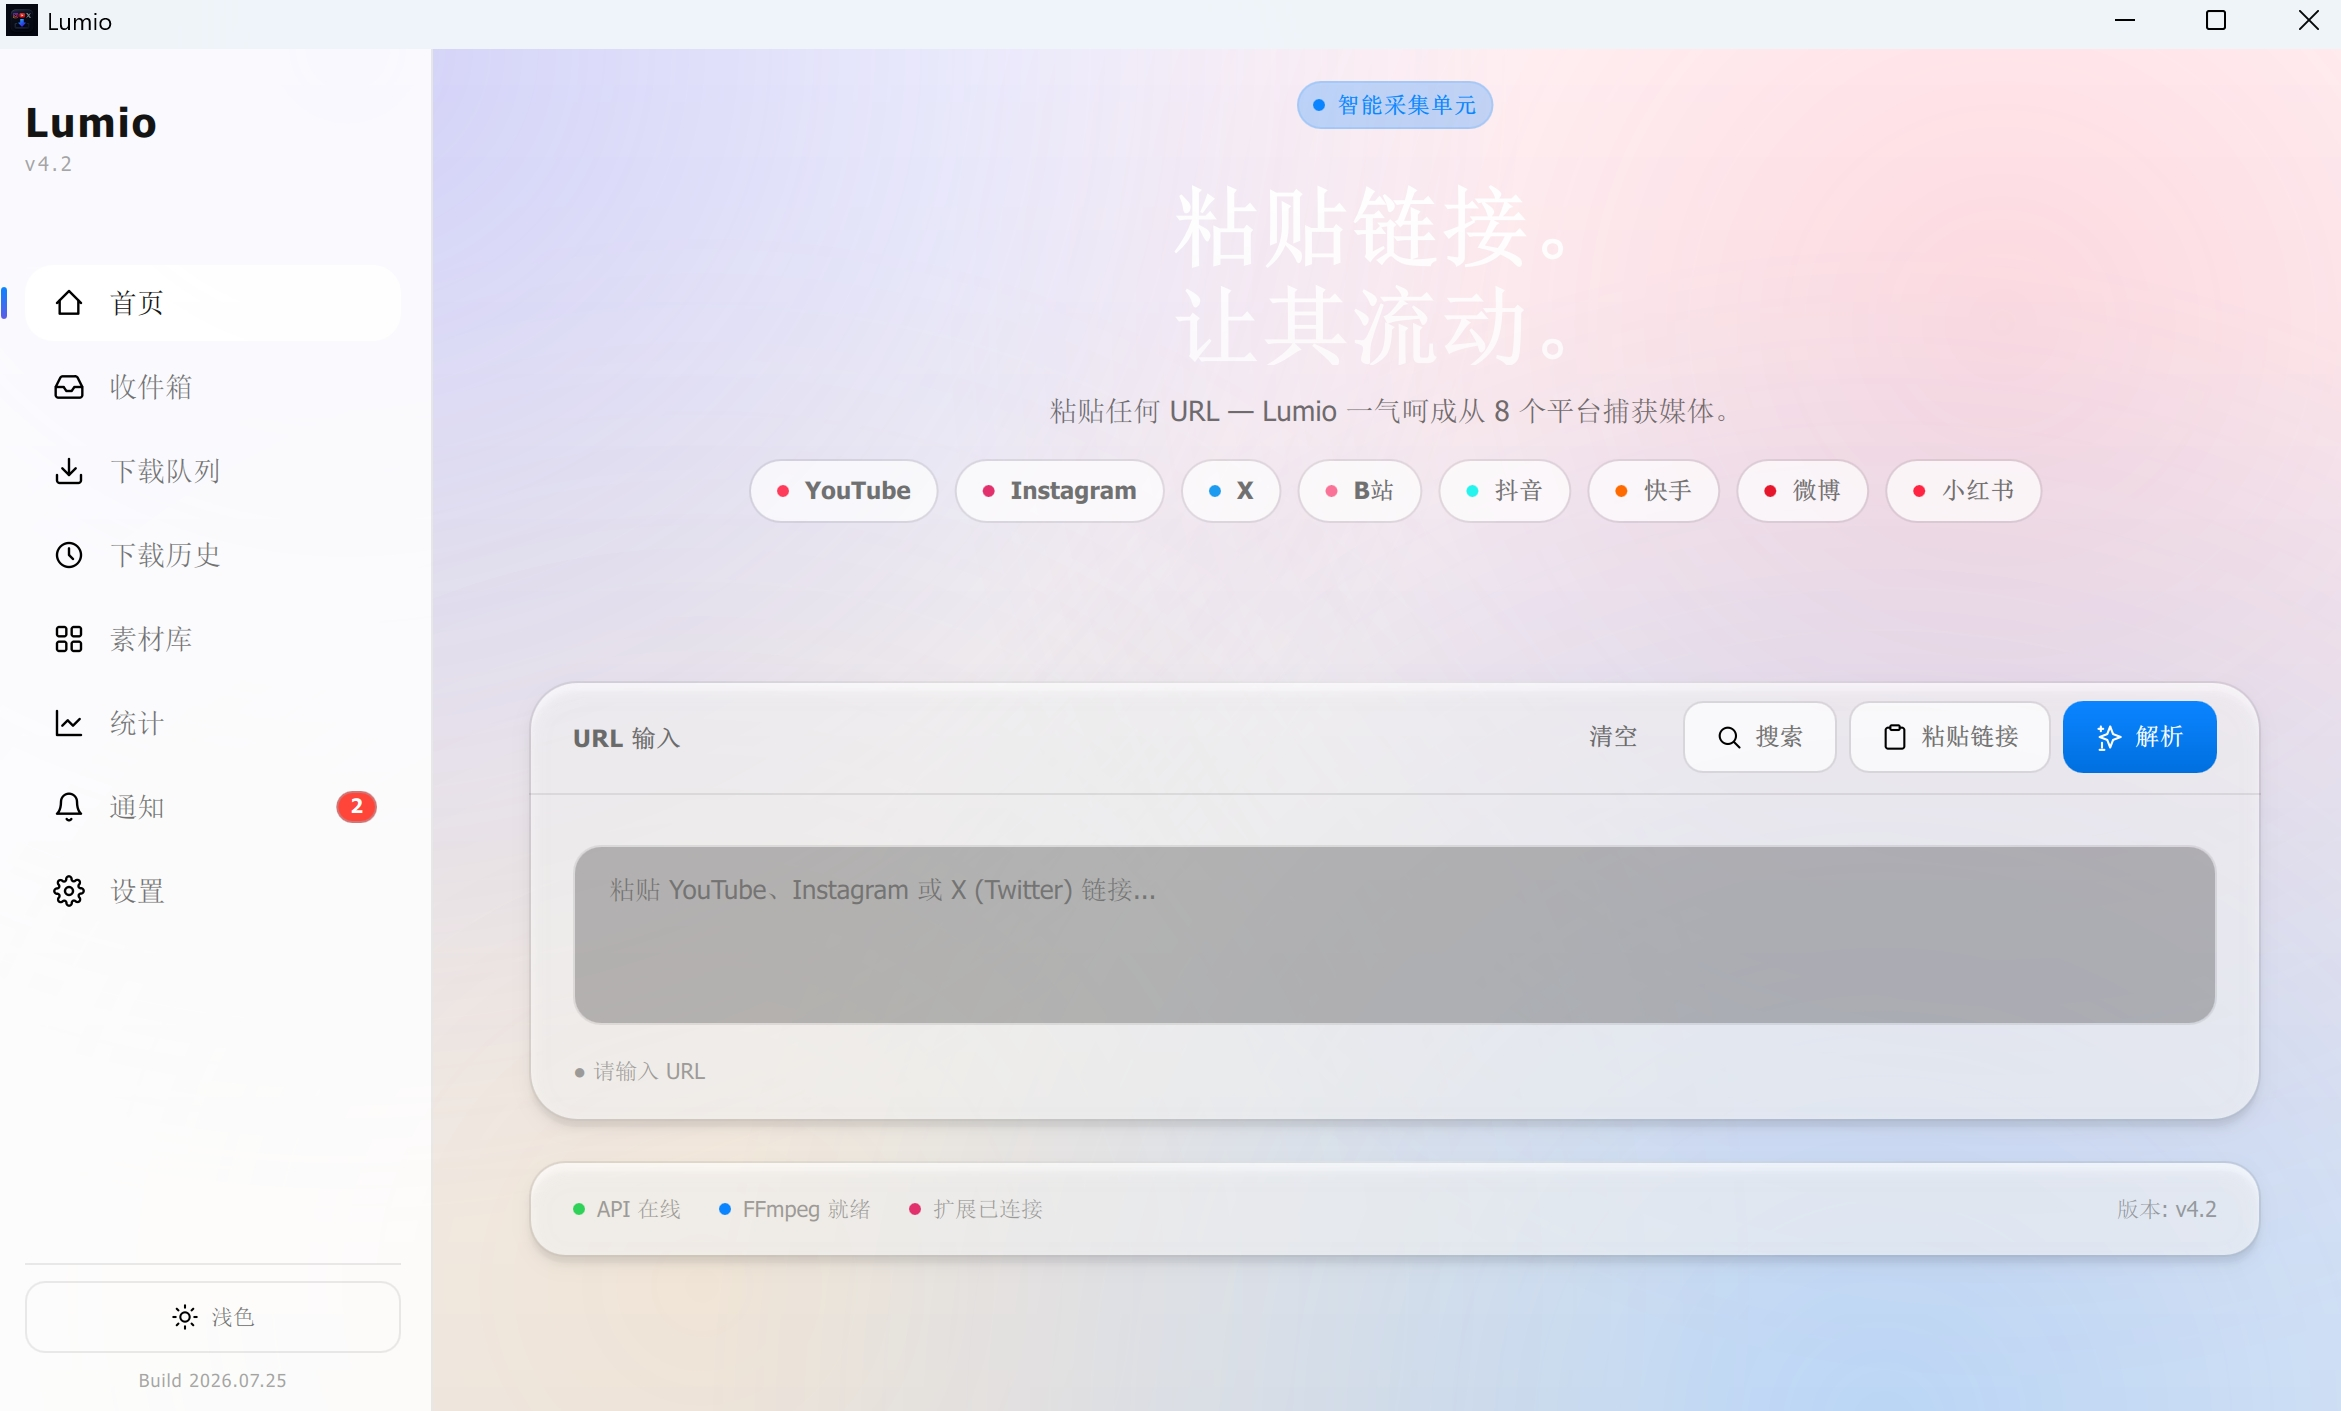
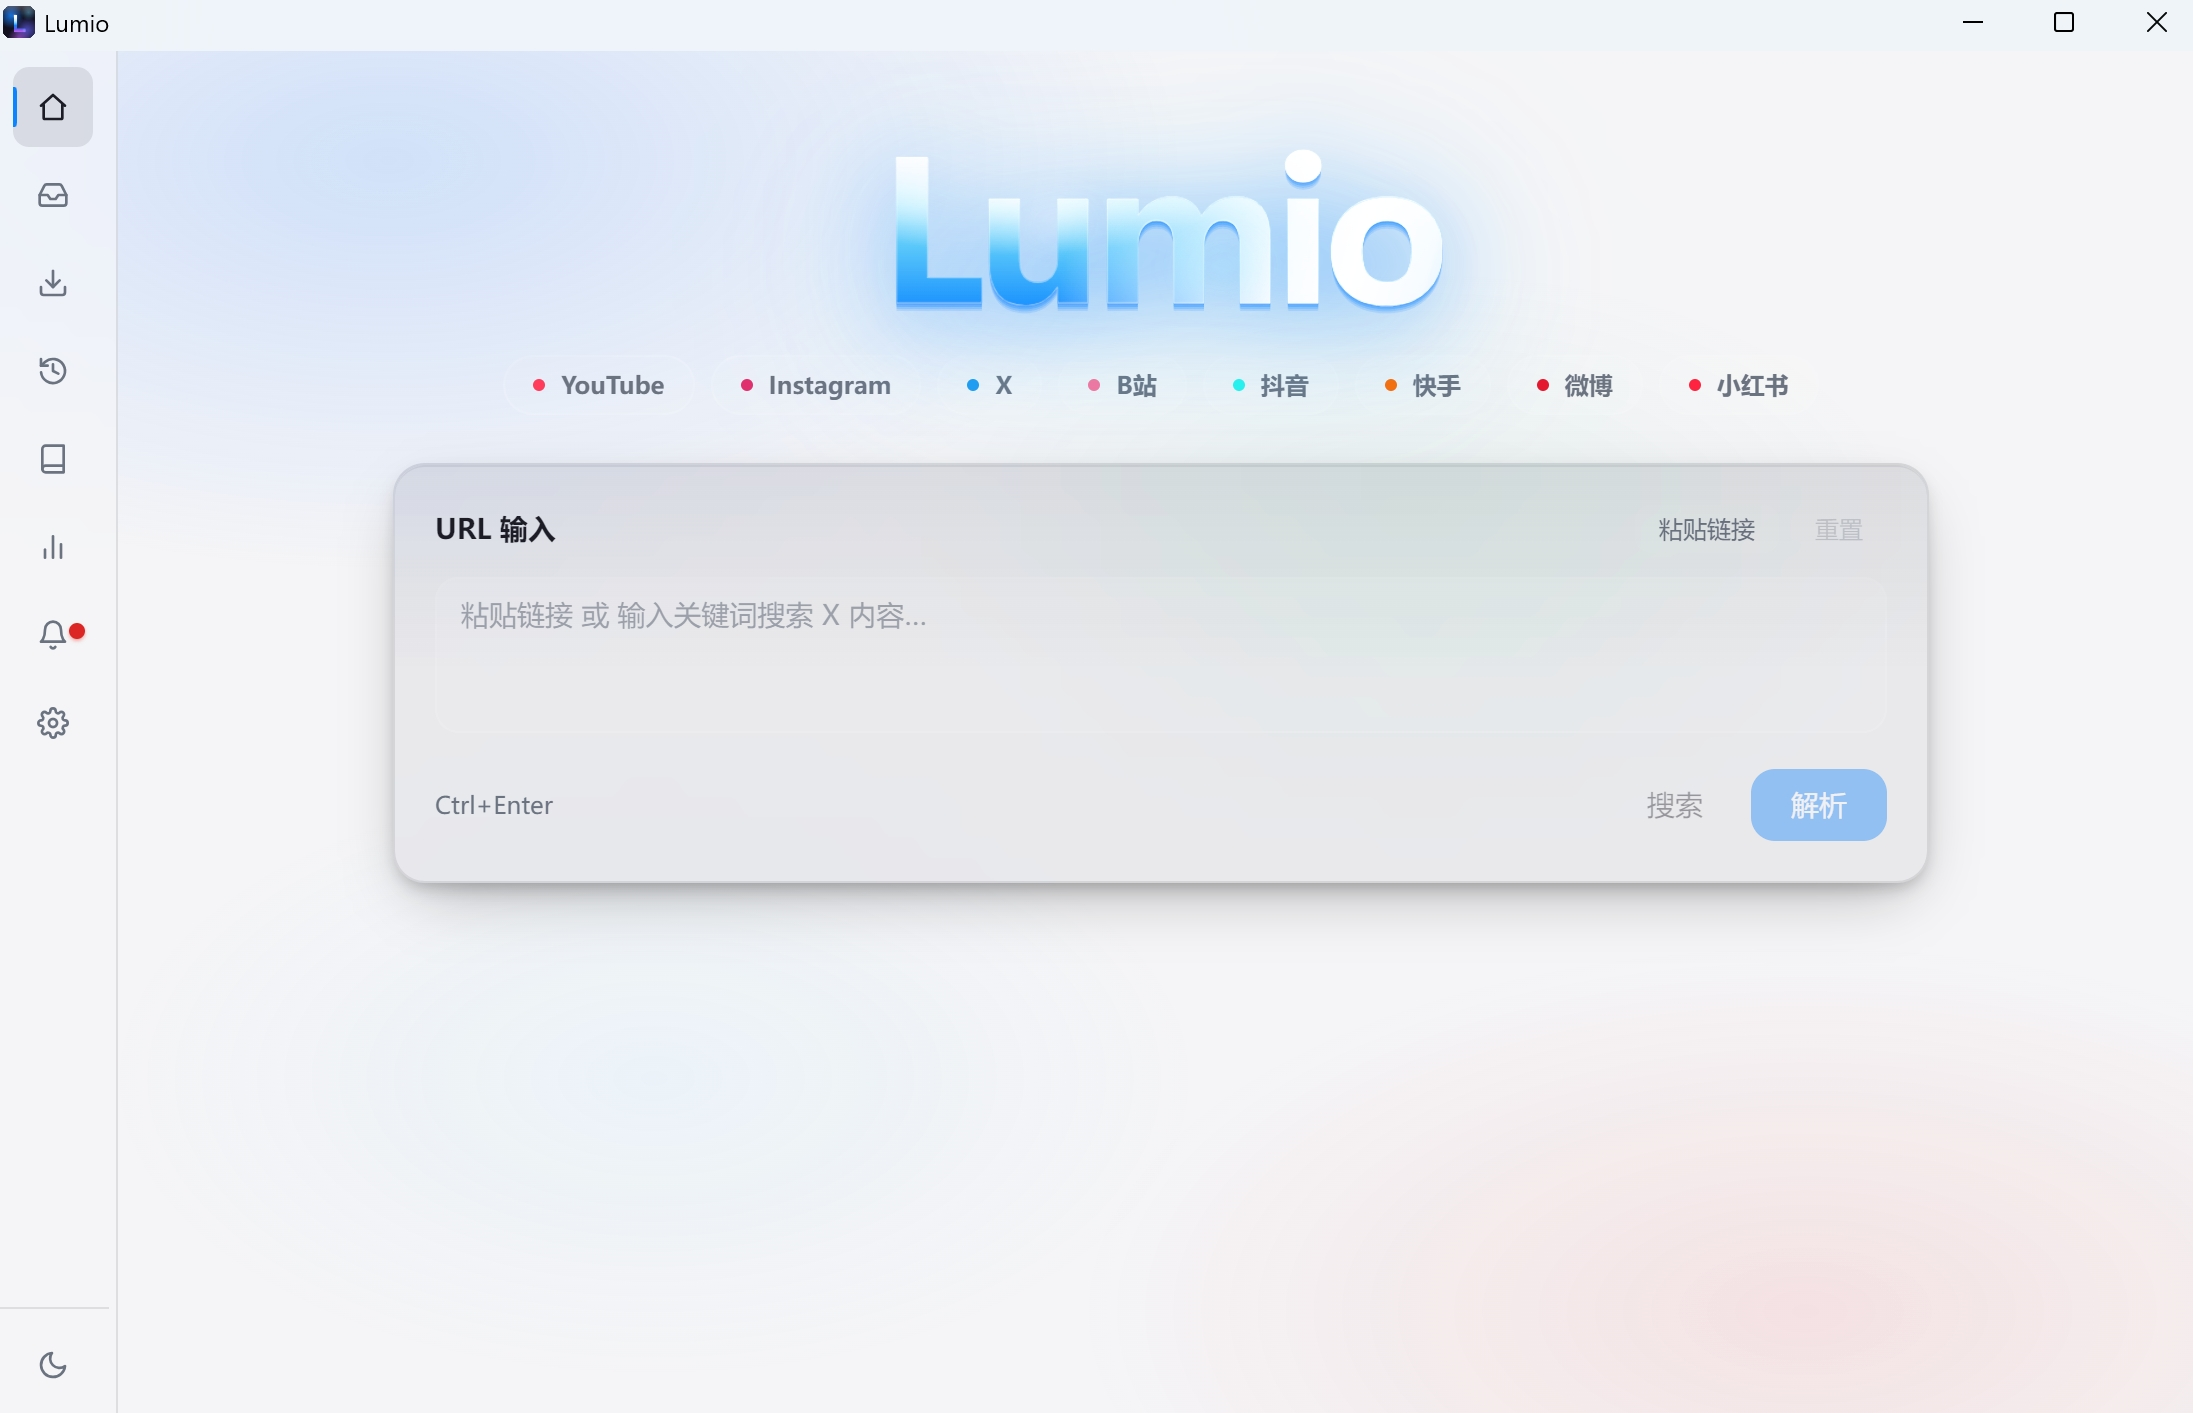
docs(readme): 更新为 Electron + React + FastAPI 架构 + 替换截图
- 新增「架构」章节，说明双进程架构与启动流程
- 安装方式重写：方式一 Releases 安装包 / 方式二 dev:electron 开发模式 / 方式三 lumio-api API 模式
- 新增「打包构建」章节，说明 npm run build:all 流程
- 截图章节替换为 docs/images/主页.png 与 素材库.png（移除已不存在的旧截图）
- 技术栈拆分为前端（Electron/React/TS/Vite/Tailwind/Zustand/react-window）+ 后端（FastAPI/yt-dlp/Provider 等）
- 清理 docs/images/ 下不再使用的旧截图文件

diff --git a/README.md b/README.md
@@ -2,7 +2,27 @@
 
 内容采集与素材管理桌面工具 — 通过分享链接下载 YouTube、Instagram、X (Twitter) 及国内主流平台（B站/抖音/快手/微博/小红书）的图片/视频，自动入库管理。
 
-![主界面](docs/images/素材库.png)
+![主页](docs/images/主页.png)
+
+## 架构
+
+Lumio 采用 **Electron + React 前端 / Python FastAPI 后端** 双进程架构：
+
+```
+┌─────────────────────────────┐     HTTP/WS      ┌──────────────────────────┐
+│  Electron + React 前端       │  ←───────────→   │  Python FastAPI 后端     │
+│  (frontend/)                │                  │  (src/lumio/api_fastapi) │
+│  - Vite + TypeScript        │                  │  - 包装现有 manager      │
+│  - Tailwind CSS             │                  │  - WebSocket 推送进度    │
+│  - Liquid Glass 设计稿      │                  │  - yt-dlp / instaloader  │
+└─────────────────────────────┘                  └──────────────────────────┘
+                                                         ↓
+                                                  现有 Python 业务
+                                                  Provider 系统 / SQLAlchemy /
+                                                  Flask / Telegram Bot
+```
+
+启动时 Electron 主进程 spawn FastAPI 子进程（随机端口 + token），通过 HTTP/WS 通信；退出时优雅关闭后端，避免端口残留。
 
 ## 功能
 
@@ -39,12 +59,12 @@
 
 - **Inbox 收件箱**：接收浏览器扩展采集的 URL，等待用户下载；支持格式选择（单个）/最高画质（批量）
 - **通知系统**：环境/依赖/版本通知 + 分类筛选 + 永久通知（IG 风险提示、VPN/代理、媒体播放器推荐、Telegram Bot、Apify Token）
-- **系统托盘**：关闭窗口最小化到托盘，保持后台运行
+- **系统托盘**：Liquid Glass 风格自定义菜单弹窗，关闭窗口最小化到托盘保持后台运行
 - **本地 API 服务**：Flask 接收浏览器扩展采集内容（127.0.0.1:38900）
 - **Telegram Bot 服务**：轮询 Bot API，接收用户发送的链接/媒体，自动写入 Inbox；支持本地 Bot API Server 突破 20MB 限制
 - **Apify IG 代理**：通过 Apify Actor 代理提取 Instagram 数据，避免账号风控
 - **缓存管理**：统一管理 4 个缓存目录（inbox_media/thumbs/provider_cache/preview），支持手动/定时清理
-- **凭证管理**：设置页 Cookie/API 凭证分组可折叠（QToolButton），避免凭证过多布局混乱
+- **凭证管理**：设置页 Cookie/API 凭证分组可折叠，避免凭证过多布局混乱
 
 ### 界面
 
@@ -53,27 +73,65 @@
 - Sidebar 红点徽章（1-9 圆点 / 10-99 胶囊 / ≥100 显示 99+）
 - Light / Dark 主题切换
 - 中/英双语界面
+- Liquid Glass 设计风格（毛玻璃 + 柔和色彩 + 大圆角，克制而非装饰堆砌）
 
 ## 安装
 
-### 方式一：下载 .exe（推荐，无需 Python 环境）
+### 方式一：下载安装包（推荐，无需任何开发环境）
 
-从 [Releases](../../releases) 页面下载对应系统的安装包，解压后直接运行。
+从 [Releases](../../releases) 页面下载对应系统的安装包（Windows NSIS / macOS DMG / Linux AppImage），双击安装即可。
 
-### 方式二：pip 安装
+安装包内已包含 Electron 前端 + PyInstaller 打包的 Python 后端，无需额外配置 Python / Node.js 环境。
+
+### 方式二：开发者模式运行（前端 + 后端分离）
+
+适用于开发调试，可独立修改前端或后端代码。
+
+**前置要求**：Python 3.10+ / Node.js 18+ / npm
 
 ```powershell
-# 需要 Python 3.10+
-pip install .
-lumio
+# 1. 安装 Python 后端依赖
+pip install -e .
+
+# 2. 安装前端依赖
+cd frontend
+npm install
+
+# 3. 启动开发模式（同时拉起 Vite + Electron + FastAPI 子进程）
+npm run dev:electron
 ```
 
-### 方式三：开发者模式
+`dev:electron` 会自动：
+- 编译 Electron 主进程 TypeScript（`electron/` → `dist-electron/`）
+- 启动 Vite Dev Server（http://localhost:5173）
+- 启动 Electron 主进程，主进程 spawn FastAPI 子进程（随机端口 + token）
+- Electron 窗口加载 `VITE_DEV_SERVER_URL`，热重载生效
+
+### 方式三：仅运行 Python 后端（API 模式）
+
+适用于不需要前端 UI、只想调用 API 的场景：
 
 ```powershell
 pip install -e .
-python -m lumio.main
+lumio-api              # 启动 FastAPI 服务（默认 127.0.0.1:8000）
 ```
+
+## 打包构建
+
+构建完整安装包（PyInstaller + electron-builder）：
+
+```powershell
+# 前置：先 pip install -e . 和 cd frontend && npm install
+cd frontend
+npm run build:all      # = build:backend + build + build:electron + electron-builder
+```
+
+输出在 `frontend/release/` 目录下。
+
+- `build:backend` — PyInstaller 把 `src/lumio/` 打包成 `LumioAPI.exe`（含 Python runtime）复制到 `frontend/python-backend/`
+- `build` — TypeScript 编译 + Vite 构建前端到 `dist/`
+- `build:electron` — 编译 `electron/` TypeScript 到 `dist-electron/`
+- `electron-builder` — 把 `dist/` + `dist-electron/` + `python-backend/` 打包成系统安装包
 
 ## 运行测试
 
@@ -84,9 +142,9 @@ PYTHONPATH=src python -m pytest tests/ -v --ignore=tests/test_integration.py
 
 ## 截图
 
-| 使用界面 | 预览功能 | 设置界面 |
-|---------|---------|---------|
-| ![使用界面](docs/images/使用界面.png) | ![预览功能](docs/images/预览功能.png) | ![设置界面](docs/images/设置界面.png) |
+| 主页 | 素材库 |
+|------|--------|
+| ![主页](docs/images/主页.png) | ![素材库](docs/images/素材库.png) |
 
 ## 浏览器扩展
 
@@ -100,7 +158,9 @@ Chrome/Edge 共用（Manifest V3）：
 
 ## 技术栈
 
-Python 3.10+ / PySide6 / QML (QtQuick) / yt-dlp / instaloader / imageio-ffmpeg / requests / SQLAlchemy / Pillow / Flask / python-telegram-bot / apify-client / V4 Provider 系统
+**前端**：Electron 31 / React 18 / TypeScript / Vite / Tailwind CSS / Zustand / react-window（虚拟列表）
+
+**后端**：Python 3.10+ / FastAPI / yt-dlp / instaloader / imageio-ffmpeg / requests / SQLAlchemy / Pillow / Flask / python-telegram-bot / apify-client / V4 Provider 系统
 
 ## 许可证
 
